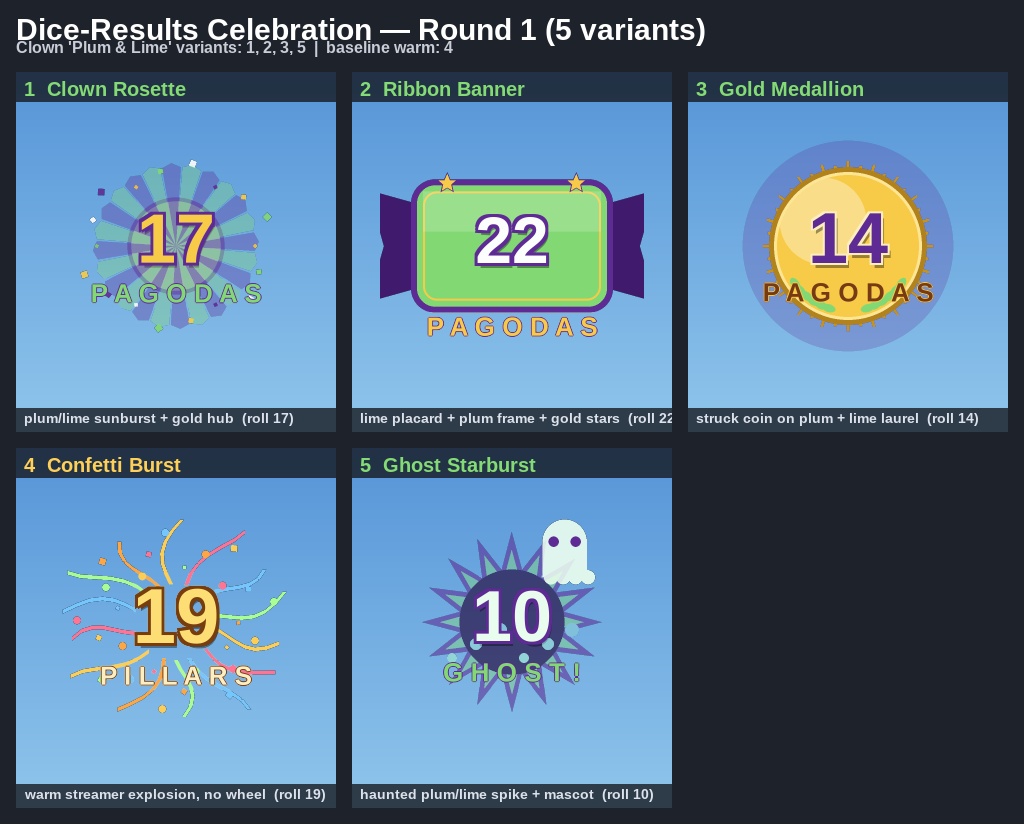
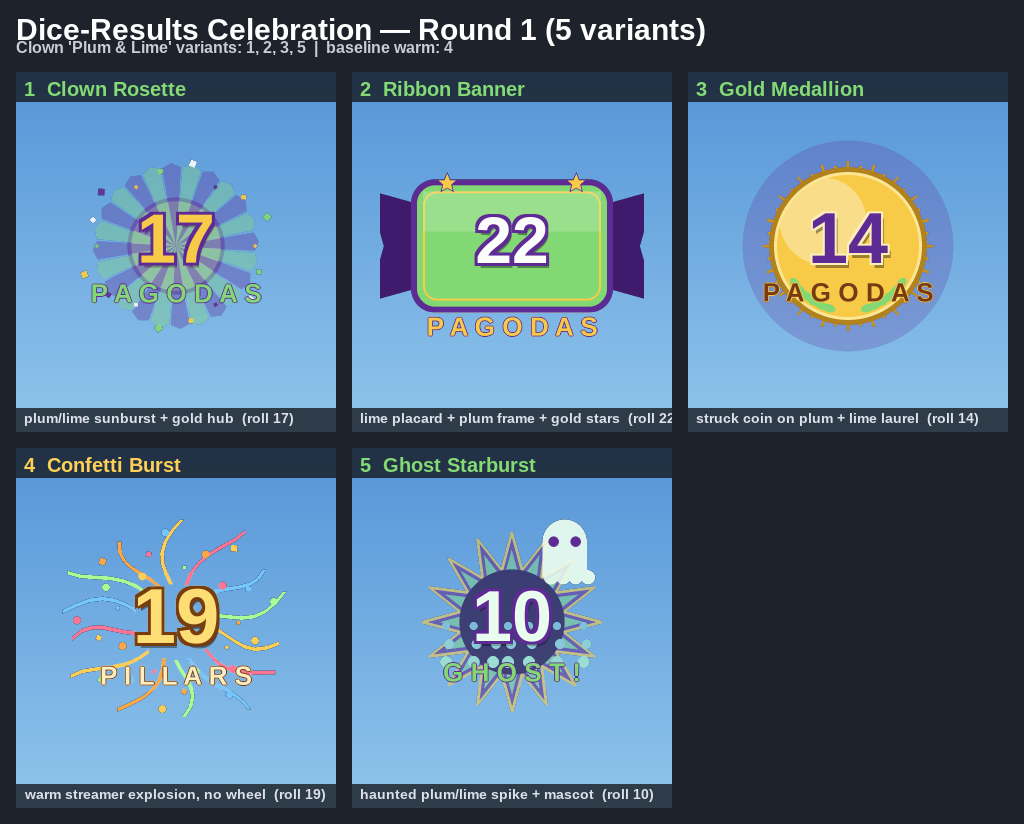
Refine dice-results celebration round 1 sheet
Clean up medallion specular crescent (drop a no-op blit, keep the
mask-clipped sheen) and strengthen the GHOST starburst read: gold-rimmed
spikes plus rising ectoplasm columns so the spooky outcome pops on the
plum field.

https://claude.ai/code/session_01JdHJ2TbdY51oSPSCYSsaHZ

Changed region(s): [[0.4062, 0.6371, 0.5938, 0.8495]]

diff --git a/tools/render_dice_celebration.py b/tools/render_dice_celebration.py
@@ -207,11 +207,11 @@ def var_medallion(roll, ss):
     pygame.draw.circle(canvas, (180, 132, 28), (c, c), R)
     pygame.draw.circle(canvas, GOLD, (c, c), R - 5 * ss)
     pygame.draw.circle(canvas, (255, 232, 150), (c, c), R - 5 * ss, 3 * ss)
-    # Top-left specular highlight crescent.
+    # Top-left specular highlight crescent, clipped to the coin face so the
+    # glossy sheen stays inside the bezel (the mask multiply trims the disc).
     hl = pygame.Surface((HD, HD), pygame.SRCALPHA)
     pygame.draw.circle(hl, (255, 255, 255, 90), (c - int(R * 0.32), c - int(R * 0.32)),
                        int(R * 0.55))
-    hl.blit(pygame.Surface((HD, HD), pygame.SRCALPHA), (0, 0))
     mask = pygame.Surface((HD, HD), pygame.SRCALPHA)
     pygame.draw.circle(mask, (255, 255, 255, 255), (c, c), R - 8 * ss)
     hl.blit(mask, (0, 0), special_flags=pygame.BLEND_RGBA_MULT)
@@ -300,16 +300,21 @@ def var_ghost_clown(roll, ss):
         a = i * math.pi / spikes
         pts.append((c + math.cos(a) * rr, c + math.sin(a) * rr))
     pygame.draw.polygon(canvas, PLUM + (150,), pts)
+    pygame.draw.polygon(canvas, GOLD + (150,), pts, 3 * ss)   # gold-rimmed spikes
     inner = [(c + (px - c) * 0.80, c + (py - c) * 0.80) for px, py in pts]
     pygame.draw.polygon(canvas, LIME + (110,), inner)
     pygame.draw.circle(canvas, (40, 18, 70, 180), (c, c), int(HD * 0.20))
 
-    # Rising ectoplasm wisps (lime-tinted) behind the number.
-    for i in range(6):
-        wx = int(c - 60 * ss + i * 24 * ss)
-        wy = int(c + 36 * ss - (i % 3) * 14 * ss)
-        al = 120 - (i % 3) * 30
-        pygame.draw.circle(canvas, (180, 255, 200, al), (wx, wy), (5 + i % 3) * ss)
+    # Rising ectoplasm wisps (lime-tinted), each a vertical column of fading
+    # blobs so they read as steam curling up rather than scattered dots.
+    for i in range(7):
+        wx = int(c - 66 * ss + i * 22 * ss)
+        sway = int(math.sin(i * 1.3) * 6 * ss)
+        for k in range(3):
+            wy = int(c + 40 * ss - k * 18 * ss)
+            al = max(0, 150 - k * 45 - (i % 2) * 20)
+            pygame.draw.circle(canvas, (180, 255, 200, al),
+                               (wx + sway + (k % 2) * 3 * ss, wy), (6 - k) * ss)
 
     # Little ghost mascot up-right, gold eyes — the friendly spook.
     gx, gy = c + int(HD * 0.20), c - int(HD * 0.22)
